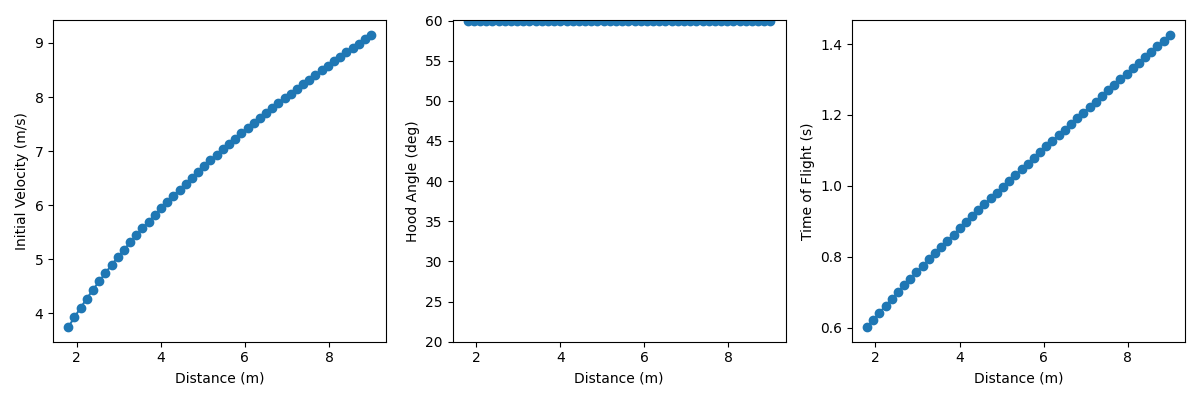
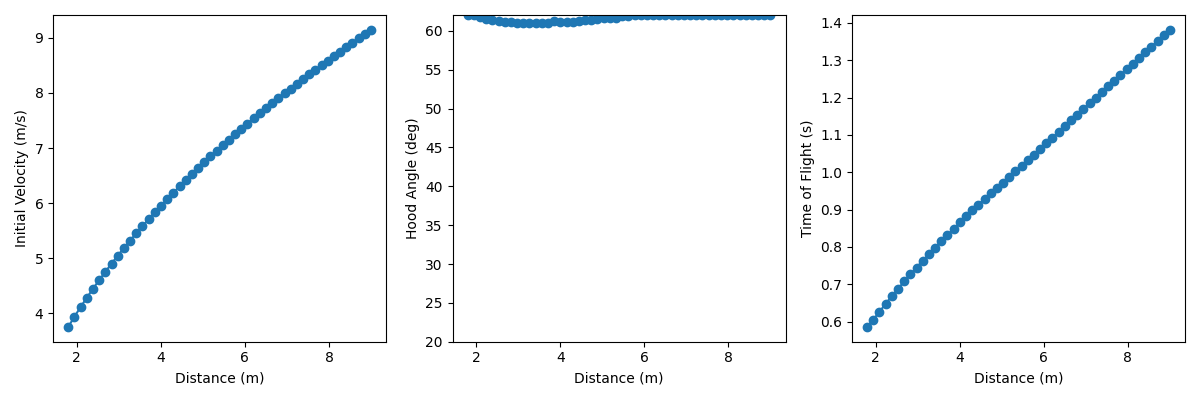
Shift time fixes and changes for mechanical adjustments

diff --git a/src/main/java/frc/robot/subsystems/turret/Turret.java b/src/main/java/frc/robot/subsystems/turret/Turret.java
@@ -2,14 +2,12 @@ package frc.robot.subsystems.turret;
 
 import edu.wpi.first.math.MathUtil;
 import edu.wpi.first.math.filter.Debouncer;
-import edu.wpi.first.math.filter.LinearFilter;
 import edu.wpi.first.math.filter.SlewRateLimiter;
 import edu.wpi.first.math.filter.Debouncer.DebounceType;
 import edu.wpi.first.math.util.Units;
 import edu.wpi.first.units.measure.Angle;
 import edu.wpi.first.units.measure.LinearVelocity;
 import edu.wpi.first.wpilibj.Alert;
-import edu.wpi.first.wpilibj.DriverStation;
 import edu.wpi.first.wpilibj.Timer;
 import edu.wpi.first.wpilibj.Alert.AlertType;
 import edu.wpi.first.wpilibj2.command.Command;
@@ -123,7 +121,7 @@ public class Turret extends SubsystemBase {
 
         TurretTuning.init();
 
-        RobotModeTriggers.autonomous().onTrue(reset());
+        RobotModeTriggers.autonomous().onTrue(reset().onlyIf(() -> !hasZeroed));
     }
 
     private boolean zeroing = false;
@@ -306,7 +304,7 @@ public class Turret extends SubsystemBase {
     public Command reset() {
         return Commands.runOnce(() -> {
             io.resetAzimuth(TurretConstants.azimuthResetAngle);
-            io.resetHoodTo(TurretConstants.hoodMaxAngle);
+            io.resetHoodTo(TurretConstants.hoodMinAngle);
             manualControlAzimuthOffset = 0.0;
             manualHoodOffset.set(0.0);
         });
@@ -368,7 +366,7 @@ public class Turret extends SubsystemBase {
             })),
 
             runOnce(() -> {
-                io.resetHoodTo(TurretConstants.hoodMaxAngle);
+                io.resetHoodTo(TurretConstants.hoodMinAngle);
                 manualControlAzimuthOffset = 0;
                 manualHoodOffset.set(0.0);
                 hasZeroed = true;
@@ -379,8 +377,8 @@ public class Turret extends SubsystemBase {
     }
 
     private Command zeroHood(DoubleConsumer setHoodVelocity) {
-        LinearFilter hoodCurrentFilter = LinearFilter.movingAverage((int)(0.3 / 0.02));
-        double hoodRunVelocity = Units.rotationsPerMinuteToRadiansPerSecond(-400);
+        Debouncer hoodDebounce = new Debouncer(0.2, DebounceType.kRising);
+        double hoodRunVelocity = Units.rotationsPerMinuteToRadiansPerSecond(400);
 
         Container<Double> hoodStartPos = new Container<>(0.);
         double zeroRangeRad = TurretConstants.hoodMaxAngle - TurretConstants.hoodMinAngle;
@@ -389,13 +387,13 @@ public class Turret extends SubsystemBase {
         return Commands.sequence(
             Commands.runOnce(() -> {
                 hoodStartPos.value = inputs.getHoodAngleRad();
-                hoodCurrentFilter.reset();
+                hoodDebounce.calculate(false);
             }),
             Commands.run(() -> {
                 setHoodVelocity.accept(hoodRunVelocity);
             }).until(() -> {
-                return Math.abs(inputs.getHoodAngleRad() - hoodStartPos.value) > zeroRangeRad;
-                //  || hoodCurrentFilter.calculate(inputs.hood.currentAmps()) > TurretConstants.hoodResetCurrent;
+                return Math.abs(inputs.getHoodAngleRad() - hoodStartPos.value) > zeroRangeRad
+                 || hoodDebounce.calculate(inputs.hood.currentAmps() > TurretConstants.hoodResetCurrent);
             }),
             Commands.runOnce(() -> {
                 setHoodVelocity.accept(0);

diff --git a/misc/scripts/powerUsage/powerAnalyzer.py b/misc/scripts/powerUsage/powerAnalyzer.py
@@ -86,6 +86,7 @@ class LogResult:
     amperage_integral: TimedData
     brownout_timestamps: list[float]
     average_voltage_while_enabled: float
+    average_current_while_enabled: float
 
     def integral(self, ty: str) -> TimedData:
         if ty == "power":
@@ -114,6 +115,9 @@ def analyze_log(log: tuple[str, str]):
     enabled_voltage_sum = 0
     enabled_voltage_count = 0
 
+    enabled_current_sum = 0
+    enabled_current_count = 0
+
     for field in source:
         ts = field["timestamp"] / 1e6
         if field["name"].endswith("Voltage"):
@@ -121,6 +125,9 @@ def analyze_log(log: tuple[str, str]):
             if enabled:
                 enabled_voltage_sum += field["data"]
                 enabled_voltage_count += 1
+        if field["name"].endswith("TotalCurrent") and enabled:
+            enabled_current_sum += field["data"]
+            enabled_current_count += 1
         if field["name"].endswith("ChannelCurrent"):
             for i, current in enumerate(field["data"]):
                 currents[i].add(ts, current)
@@ -175,7 +182,10 @@ def analyze_log(log: tuple[str, str]):
         amperage_integral.add(ts, next_amperage)
         
     average_voltage = enabled_voltage_sum / enabled_voltage_count if enabled_voltage_count > 0 else 0
-    return LogResult(channel_power_sums, channel_amperage_sums, start_offset, power_integral, amperage_integral, brownout_timestamps, average_voltage)
+    average_current = enabled_current_sum / enabled_current_count if enabled_current_count > 0 else 0
+    return LogResult(
+        channel_power_sums, channel_amperage_sums, start_offset, power_integral, amperage_integral, brownout_timestamps,
+        average_voltage, average_current)
 
 def plot_integrals(ty, units):
     # Power integral plot
@@ -233,8 +243,8 @@ if __name__ == '__main__':
     ax2 = ax1.twinx()
     x = range(len(logs))
     width = 0.4
-    max_voltage = max(result.average_voltage_while_enabled for result in log_results)
-    min_voltage = min(result.average_voltage_while_enabled for result in log_results)
+    max_current = max(result.average_current_while_enabled for result in log_results)
+    min_current = min(result.average_current_while_enabled for result in log_results)
 
     for log_idx, (log_path, log_name) in enumerate(logs):
         result = log_results[log_idx]
@@ -245,18 +255,18 @@ if __name__ == '__main__':
             color=plt.cm.RdYlGn_r(min(len(result.brownout_timestamps) / max_brownouts, 1.0))
         )
         ax2.bar(
-            x[log_idx] + width/2, result.average_voltage_while_enabled, width=width*0.5,
+            x[log_idx] + width/2, result.average_current_while_enabled, width=width*0.5,
             color="#ffff55"
         )
 
     plt.xlabel("Log")
-    plt.title("Total Energy and Average Voltage per Log")
+    plt.title("Total Energy and Average Current per Log")
     plt.legend()
     ax1.set_xticks(x)
     ax1.set_xticklabels([log_name for _, log_name in logs])
     ax1.set_ylabel("Total Energy (Wh)")
-    ax2.set_ylabel("Average Voltage While Enabled (V)")
-    ax2.set_ylim(0, 14)
+    ax2.set_ylabel("Average Current While Enabled (A)")
+    # ax2.set_ylim(0, 14)
 
     plot_integrals("power", "Wh")
     plt.xlabel("Time (s)")

diff --git a/src/main/java/frc/robot/util/ShiftHelpers.java b/src/main/java/frc/robot/util/ShiftHelpers.java
@@ -9,9 +9,11 @@ import edu.wpi.first.wpilibj.Timer;
 import edu.wpi.first.wpilibj2.command.Commands;
 import edu.wpi.first.wpilibj2.command.button.RobotModeTriggers;
 
-// TODO: fix FMS running slow (???)
-
 public class ShiftHelpers {
+    // The FMS runs slow (???) by this amount
+    private static final double slowFMSTimeScale = 141.5 / 140;
+    private static final double shiftOffset = 0.5;
+
     private static ShiftHelpers instance;
     public static ShiftHelpers getInstance() {
         if(instance == null) {
@@ -42,8 +44,8 @@ public class ShiftHelpers {
     public enum Shift {
         // Order matters here!
         DISABLED(false, false, 0., false, "Disabled"),
-        AUTO(true, true, 20., false, "Autonomous"),
-        TRANSITION(true, true, 10., "Transition - WON AUTO", "Transition - LOST AUTO"),
+        AUTO(true, true, 20. + shiftOffset, false, "Autonomous"),
+        TRANSITION(true, true, 10. + shiftOffset, "Transition - WON AUTO", "Transition - LOST AUTO"),
         SHIFT1(true, false, 25., "Shift 1"),
         SHIFT2(false, true, 25., "Shift 2"),
         SHIFT3(true, false, 25., "Shift 3"),
@@ -61,7 +63,7 @@ public class ShiftHelpers {
         private Shift(boolean winnerCanScore, boolean loserCanScore, double duration, String winName, String loseName) {
             this.winnerCanScore = winnerCanScore;
             this.loserCanScore = loserCanScore;
-            this.duration = duration;
+            this.duration = duration * slowFMSTimeScale;
             this.winText = winName;
             this.loseText = loseName;
         }

diff --git a/src/main/java/frc/robot/subsystems/spindexer/SpindexerConstants.java b/src/main/java/frc/robot/subsystems/spindexer/SpindexerConstants.java
@@ -1,6 +1,5 @@
 package frc.robot.subsystems.spindexer;
 
-import frc.robot.util.GearRatios;
 import frc.robot.util.GenericPIDConstants;
 import frc.robot.util.tunables.TunablePID;
 
@@ -9,10 +8,10 @@ public class SpindexerConstants {
     public static final int spinnerCanId = 41;
 
     public static final double spinnerMotorReduction = 3.0;
-    public static final double transferMotorReduction = GearRatios.UltraPlanetary.five;
+    public static final double transferMotorReduction = 5.0;
 
     public static final int spinnerCurrentLimit = 40;
-    public static final int transferCurrentLimit = 35;
+    public static final int transferCurrentLimit = 40;
 
     public static final int ballsInSpin = 5;
 

diff --git a/src/main/java/frc/robot/subsystems/turret/TurretConstants.java b/src/main/java/frc/robot/subsystems/turret/TurretConstants.java
@@ -48,8 +48,8 @@ public class TurretConstants {
     public static final double azimuthHoodCoupling = TurretConstants.totalAzimuthGearing * TurretConstants.hoodRingToHoodReduction;
 
     // Constraints
-    public static final double hoodMinAngle = Units.degreesToRadians(20);
-    public static final double hoodMaxAngle = Units.degreesToRadians(45);
+    public static final double hoodMinAngle = Units.degreesToRadians(23);
+    public static final double hoodMaxAngle = Units.degreesToRadians(63);
 
     public static final double flywheelRadius = Units.inchesToMeters(2);
 

diff --git a/misc/shotSim/shotSimulator.py b/misc/shotSim/shotSimulator.py
@@ -196,7 +196,7 @@ def simulate_and_save(
             args=(d, target_height, extra_cost),
             bounds=[
                 (0.1, 15.0), # Velocity bounds
-                (np.radians(24), np.radians(60)) # Hood angle bounds
+                (np.radians(24), np.radians(62)) # Hood angle bounds
             ],
             method="SLSQP"
         )
